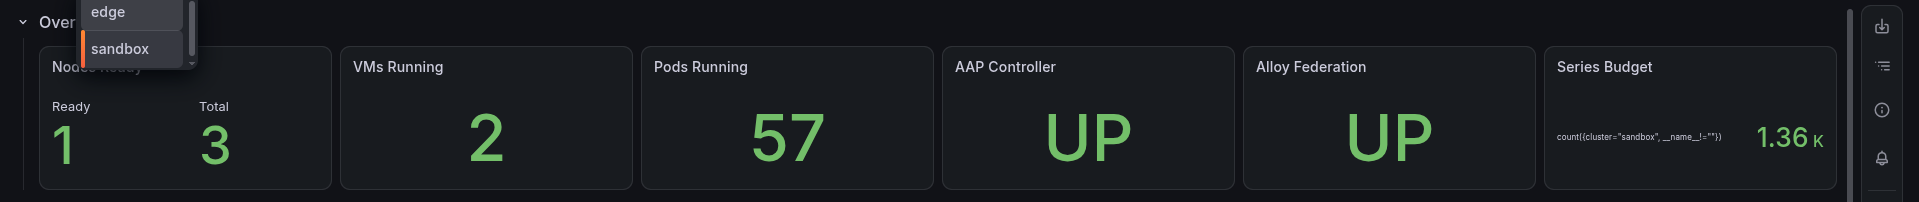
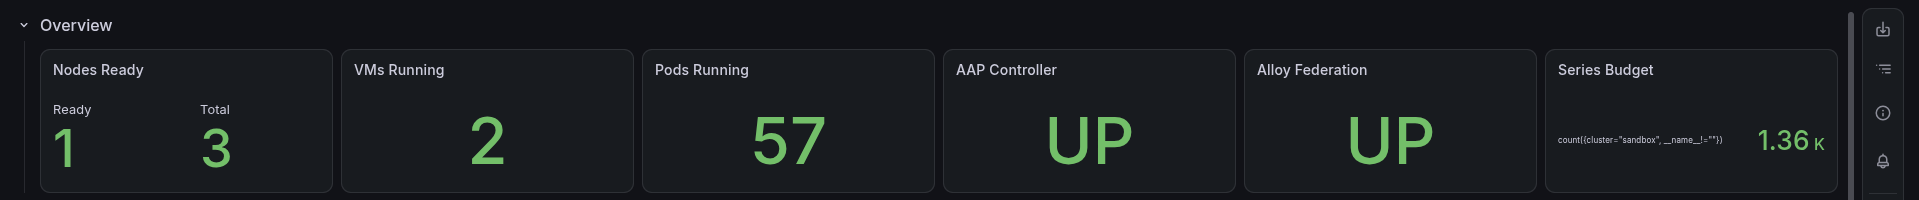
docs: the trial ends but the stack stays, so the guide is a live demo again
The in-product notice says the account switches to the Free plan on
2026-09-20 rather than being deleted. Measured usage is about 23% of the
free series allowance and 10% of the logs, so the demo keeps working.

Reframed the pages that called this a record, added the notice and a "the
trial ends, the stack stays" section to usage-and-cost, and swapped in the
clean overview row and controls shots now the Cluster dropdown is closed.
Adds the navigation-menu screenshot.

diff --git a/docs/demos/observability/grafana/README.md b/docs/demos/observability/grafana/README.md
@@ -10,8 +10,8 @@ twenty minutes.
 | **Length** | 20 minutes (15 + 5 for questions) |
 | **Audience** | Platform engineers, SREs and automation leads who already run monitoring and want to see it managed as code and read by an assistant |
 | **Reader** | The Ansible pre-sales engineer presenting it |
-| **Needs a live environment?** | **Not after 2026-09-20** — the Grafana Cloud instance expires then and is not being renewed. The screenshots and captured MCP answers here are the record. To run it live, [rebuild it](rebuild.md) on a new free account |
-| **Status** | **Draft** — built and rehearsed on sandbox 2026-09-15; screenshots pending |
+| **Needs a live environment?** | **No, but there is one.** Every beat is captured in screenshots here. The Grafana Cloud stack keeps running: on 2026-09-20 the trial ends and the account moves to the **Free plan**, which this demo fits inside |
+| **Status** | **Draft** — built and rehearsed on sandbox 2026-09-15; a few screenshots outstanding |
 
 **New to Grafana?** Read [`grafana-101.md`](grafana-101.md) first. It assumes
 nothing.
@@ -27,7 +27,7 @@ nothing.
 | [`talk-track.md`](talk-track.md) | **While rehearsing.** The narrative and the actual words |
 | [`playbooks.md`](playbooks.md) | **When asked "what did Ansible actually do".** Every playbook, job template, credential and resource |
 | [`mcp-server.md`](mcp-server.md) | **When asked "what can the AI do with it".** The 81 tools, real answers, and the proof it cannot write |
-| [`architecture.md`](architecture.md) | **When asked "how does that work".** Data flow, the three tokens, timings, what expires |
+| [`architecture.md`](architecture.md) | **When asked "how does that work".** Data flow, the three tokens, timings, what the free plan changes |
 | [`usage-and-cost.md`](usage-and-cost.md) | **When asked "what does this cost" or "how do we send less".** Measured volumes and reduction options |
 | [`rebuild.md`](rebuild.md) | **When you want it running again.** A new free account to a working demo in about 45 minutes |
 | [`objections.md`](objections.md) | **Before you go in.** What this audience asks, answered honestly |
@@ -59,8 +59,8 @@ without being given the keys to it.
 
 ## Why it works without an instance
 
-Everything a live run would put on screen is captured before the instance
-expires:
+Every beat is captured, so a lost cluster or a dead conference network costs
+you nothing:
 
 - **Dashboard and panel images** were rendered by Grafana itself, through the
   image renderer, for the sandbox cluster with a full day of data behind them.
@@ -70,9 +70,9 @@ expires:
   the live stack, trimmed but not edited.
 - **The automation itself** is unchanged in git, and was run from AAP.
 
-**The honest caveat:** these are pictures of a working system, not a working
-system. If the audience wants to see a query run, that is a rebuild — 45 minutes
-the day before, not in the meeting.
+**The honest caveat:** screenshots are pictures of a working system. The stack
+itself is still up, so a live run is possible — but check it first with the
+question below rather than assuming.
 
 ---
 

diff --git a/docs/demos/observability/grafana/architecture.md b/docs/demos/observability/grafana/architecture.md
@@ -1,7 +1,7 @@
 # Architecture — Grafana Cloud
 
 Reference for the presenter. What exists, what builds what, which credential can
-do what, and what is lost when the instance expires.
+do what, and what changes when the trial ends.
 
 For **why** it is built this way, read the design plan:
 [`plan/grafana-plan.md`](../../../plan/grafana-plan.md). For each playbook in
@@ -59,10 +59,9 @@ flowchart LR
 - **One dashboard and one rule group serve every cluster.** Alloy stamps a
   `cluster` label on every series and log line; the dashboard has a Cluster
   picker and each alert fires per cluster.
-- **Grafana Cloud outlives the clusters, but not forever.** It was chosen over a
-  self-hosted Grafana because it survives an RHDP environment being rebuilt. It
-  does not survive its own free trial ending, which is why this folder is a
-  record.
+- **Grafana Cloud outlives the clusters.** It was chosen over a self-hosted
+  Grafana because it survives an RHDP environment being rebuilt. When the trial
+  ends the account moves to the Free plan and keeps running; the demo fits.
 
 ---
 
@@ -166,9 +165,9 @@ Detail and reduction options: [`usage-and-cost.md`](usage-and-cost.md).
 
 ---
 
-## What expires, and what survives
+## What the free plan changes
 
-| Goes with the instance | Survives in git |
+| Lost when the trial ends | Kept |
 |---|---|
 | Metric and log history | `deploy_alloy.yml` — the whole collection pipeline |
 | The three tokens | `cluster-health.json` — the dashboard |

diff --git a/docs/demos/observability/grafana/talk-track.md b/docs/demos/observability/grafana/talk-track.md
@@ -3,8 +3,8 @@
 **Rehearse from this. Present from [`run-sheet.md`](run-sheet.md).**
 
 Everything a live run would put on screen is embedded in this folder's pages,
-so the whole track works with no Grafana instance — which is just as well,
-because the one it was built on expires on 2026-09-20.
+so the whole track works with no Grafana instance, and with one: the stack
+stays up on the Free plan when the trial ends on 2026-09-20.
 
 ---
 
@@ -187,8 +187,9 @@ set-up.
 > **"Three things. There are no traces — nothing in this platform emits them, so
 > that part of Grafana is empty. The 'Nodes Ready' panel says three on a
 > one-node cluster, which is wrong, and a one-line pull request. And the Grafana
-> instance behind these screenshots was a free trial that has since expired —
-> they're pictures of a working system, not a working system."**
+> instance behind these screenshots runs on Grafana's free plan — ten thousand
+> metric series and fifty gigabytes of logs a month. Two clusters fit inside
+> that. A real estate would not, and that is a sizing conversation, not a demo."**
 
 **Why this beat exists.** A room of SREs has seen demos skip the hard parts.
 Being first to the limitations is what makes them believe the rest.

diff --git a/docs/demos/README.md b/docs/demos/README.md
@@ -18,7 +18,7 @@ building the automation. For *why* something is built the way it is, read
 | [MCP Servers — Agentic Automation with Governance](mcp-servers/) | Platform engineers and automation leads | 20 min | **Draft** ([#153](https://github.com/ericcames/sales.demos/issues/153)) |
 | [Automation Orchestrator](automation-orchestrator/) | Platform engineers and automation leads | 20 min | **Ready** |
 | [Edge / Single Node OpenShift](edge-sno/) | Platform engineers and edge infrastructure architects | Setup ~90 min hands-on; the demo itself is the 30 min OCP Virt track | **Ready** |
-| [Observability — Grafana Cloud](observability/grafana/) | Platform engineers, SREs and automation leads | 20 min | **Draft** — instance expires 2026-09-20; screenshots in progress ([#82](https://github.com/ericcames/sales.demos-docs/issues/82)) |
+| [Observability — Grafana Cloud](observability/grafana/) | Platform engineers, SREs and automation leads | 20 min | **Draft** — screenshots in progress ([#82](https://github.com/ericcames/sales.demos-docs/issues/82)) |
 
 ---
 

diff --git a/docs/demos/observability/grafana/run-sheet.md b/docs/demos/observability/grafana/run-sheet.md
@@ -8,7 +8,7 @@ that, present from this.
 |---|---|
 | **Length** | 20 minutes — 15 presenting, 5 questions |
 | **Audience** | Platform engineers, SREs, automation leads |
-| **Needs an environment?** | **No.** The instance expires 2026-09-20; present from the screenshots. Live is a [rebuild](rebuild.md) the day before |
+| **Needs an environment?** | **No** — the screenshots carry it. Live works too: the stack stays up on the Free plan after 2026-09-20 |
 | **Assets** | the images in this folder's pages; the three committed files in sales.demos |
 
 ---
@@ -135,7 +135,7 @@ Pick two:
 
 - **No traces** — nothing here emits them
 - **"Nodes Ready: 3"** is wrong on a single-node cluster
-- **The instance expires on 2026-09-20** — after that, this is a record, not a live system
+- **The free plan is a real limit** — 10,000 metric series and 50 GB of logs a month, and two clusters use about a quarter of the series
 - **Alerts don't notify anyone** — deliberately, because this repo is public
 
 ---

diff --git a/docs/plan/grafana-plan.md b/docs/plan/grafana-plan.md
@@ -302,11 +302,12 @@ Decisions worth keeping:
   five-minute staleness window.
 - **No contact point.** A receiver would put an address in a public repo.
 
-## Status — the instance expires 2026-09-20
+## Status — the trial ends 2026-09-20, the stack stays
 
-The free-tier Grafana Cloud stack behind this plan expires on 2026-09-20 and
-will not be renewed. The automation stays in sales.demos; the dashboard, alerts,
-MCP answers and screenshots are captured before then in
+The trial behind this plan ends on 2026-09-20, when the account switches to the
+**Free plan** automatically rather than being deleted — measured usage sits at
+about 23% of the free series allowance and 10% of the log allowance, so the demo
+keeps working. The automation, dashboard, alerts, MCP answers and screenshots are in
 [`demos/observability/grafana/`](../demos/observability/grafana/README.md),
 which also has the step-by-step
 [rebuild on a new account](../demos/observability/grafana/rebuild.md).

diff --git a/docs/demos/observability/README.md b/docs/demos/observability/README.md
@@ -5,7 +5,7 @@ platform, and an AI assistant that can read them.
 
 | Demo | What it shows | Status |
 |---|---|---|
-| [Grafana Cloud](grafana/) | Ansible instruments OpenShift, OpenShift Virtualization and AAP, pushes a dashboard and alert rules as code, and Claude reads the result through a read-only MCP server | **Draft** — the instance expires 2026-09-20; screenshots and captured answers are being collected before then ([#82](https://github.com/ericcames/sales.demos-docs/issues/82)) |
+| [Grafana Cloud](grafana/) | Ansible instruments OpenShift, OpenShift Virtualization and AAP, pushes a dashboard and alert rules as code, and Claude reads the result through a read-only MCP server | **Draft** — screenshots and captured answers landing now ([#82](https://github.com/ericcames/sales.demos-docs/issues/82)) |
 
 Other observability platforms go beside `grafana/` here, one directory each. The
 Dynatrace idea is tracked in

diff --git a/docs/demos/observability/grafana/usage-and-cost.md b/docs/demos/observability/grafana/usage-and-cost.md
@@ -10,6 +10,16 @@ Metrics** and **Adaptive Logs**, both covered below.
 
 ---
 
+## The trial ends, the stack stays
+
+On **2026-09-20** the account leaves its unlimited-usage trial. Grafana switches
+it to the **Free plan** automatically — the stack is not deleted:
+
+![The in-product notice: on Sep 20 the account switches to the Free plan](../../../images/grafana-trial-notice.png)
+
+That matters because this demo fits inside the free plan with room to spare. The
+numbers below are the evidence.
+
 ## The free tier, and where we sat in it
 
 | Signal | Free-tier allowance | Our usage | Headroom |

diff --git a/docs/demos/observability/grafana/rebuild.md b/docs/demos/observability/grafana/rebuild.md
@@ -198,7 +198,8 @@ the screen.
 
 ## When you are finished
 
-Free accounts expire. Before yours does:
+A free account keeps running — Grafana moves a finished trial onto the Free plan
+rather than deleting the stack. Tidy up anyway when you stop using it:
 
 1. Capture anything you want to keep — this folder is the example.
 2. Delete the three tokens in the Grafana UI. Nothing automates this.

diff --git a/docs/demos/observability/grafana/mcp-server.md b/docs/demos/observability/grafana/mcp-server.md
@@ -2,7 +2,7 @@
 
 What Claude could do with Grafana, how it was wired, and why it could not
 change anything. Every answer quoted here was captured from the live instance
-on 2026-09-15, before the instance expires on 2026-09-20.
+on 2026-09-15, on the sandbox cluster.
 
 For every other MCP server in this repo — OpenShift, AAP, Automation
 Orchestrator, the portal — see
